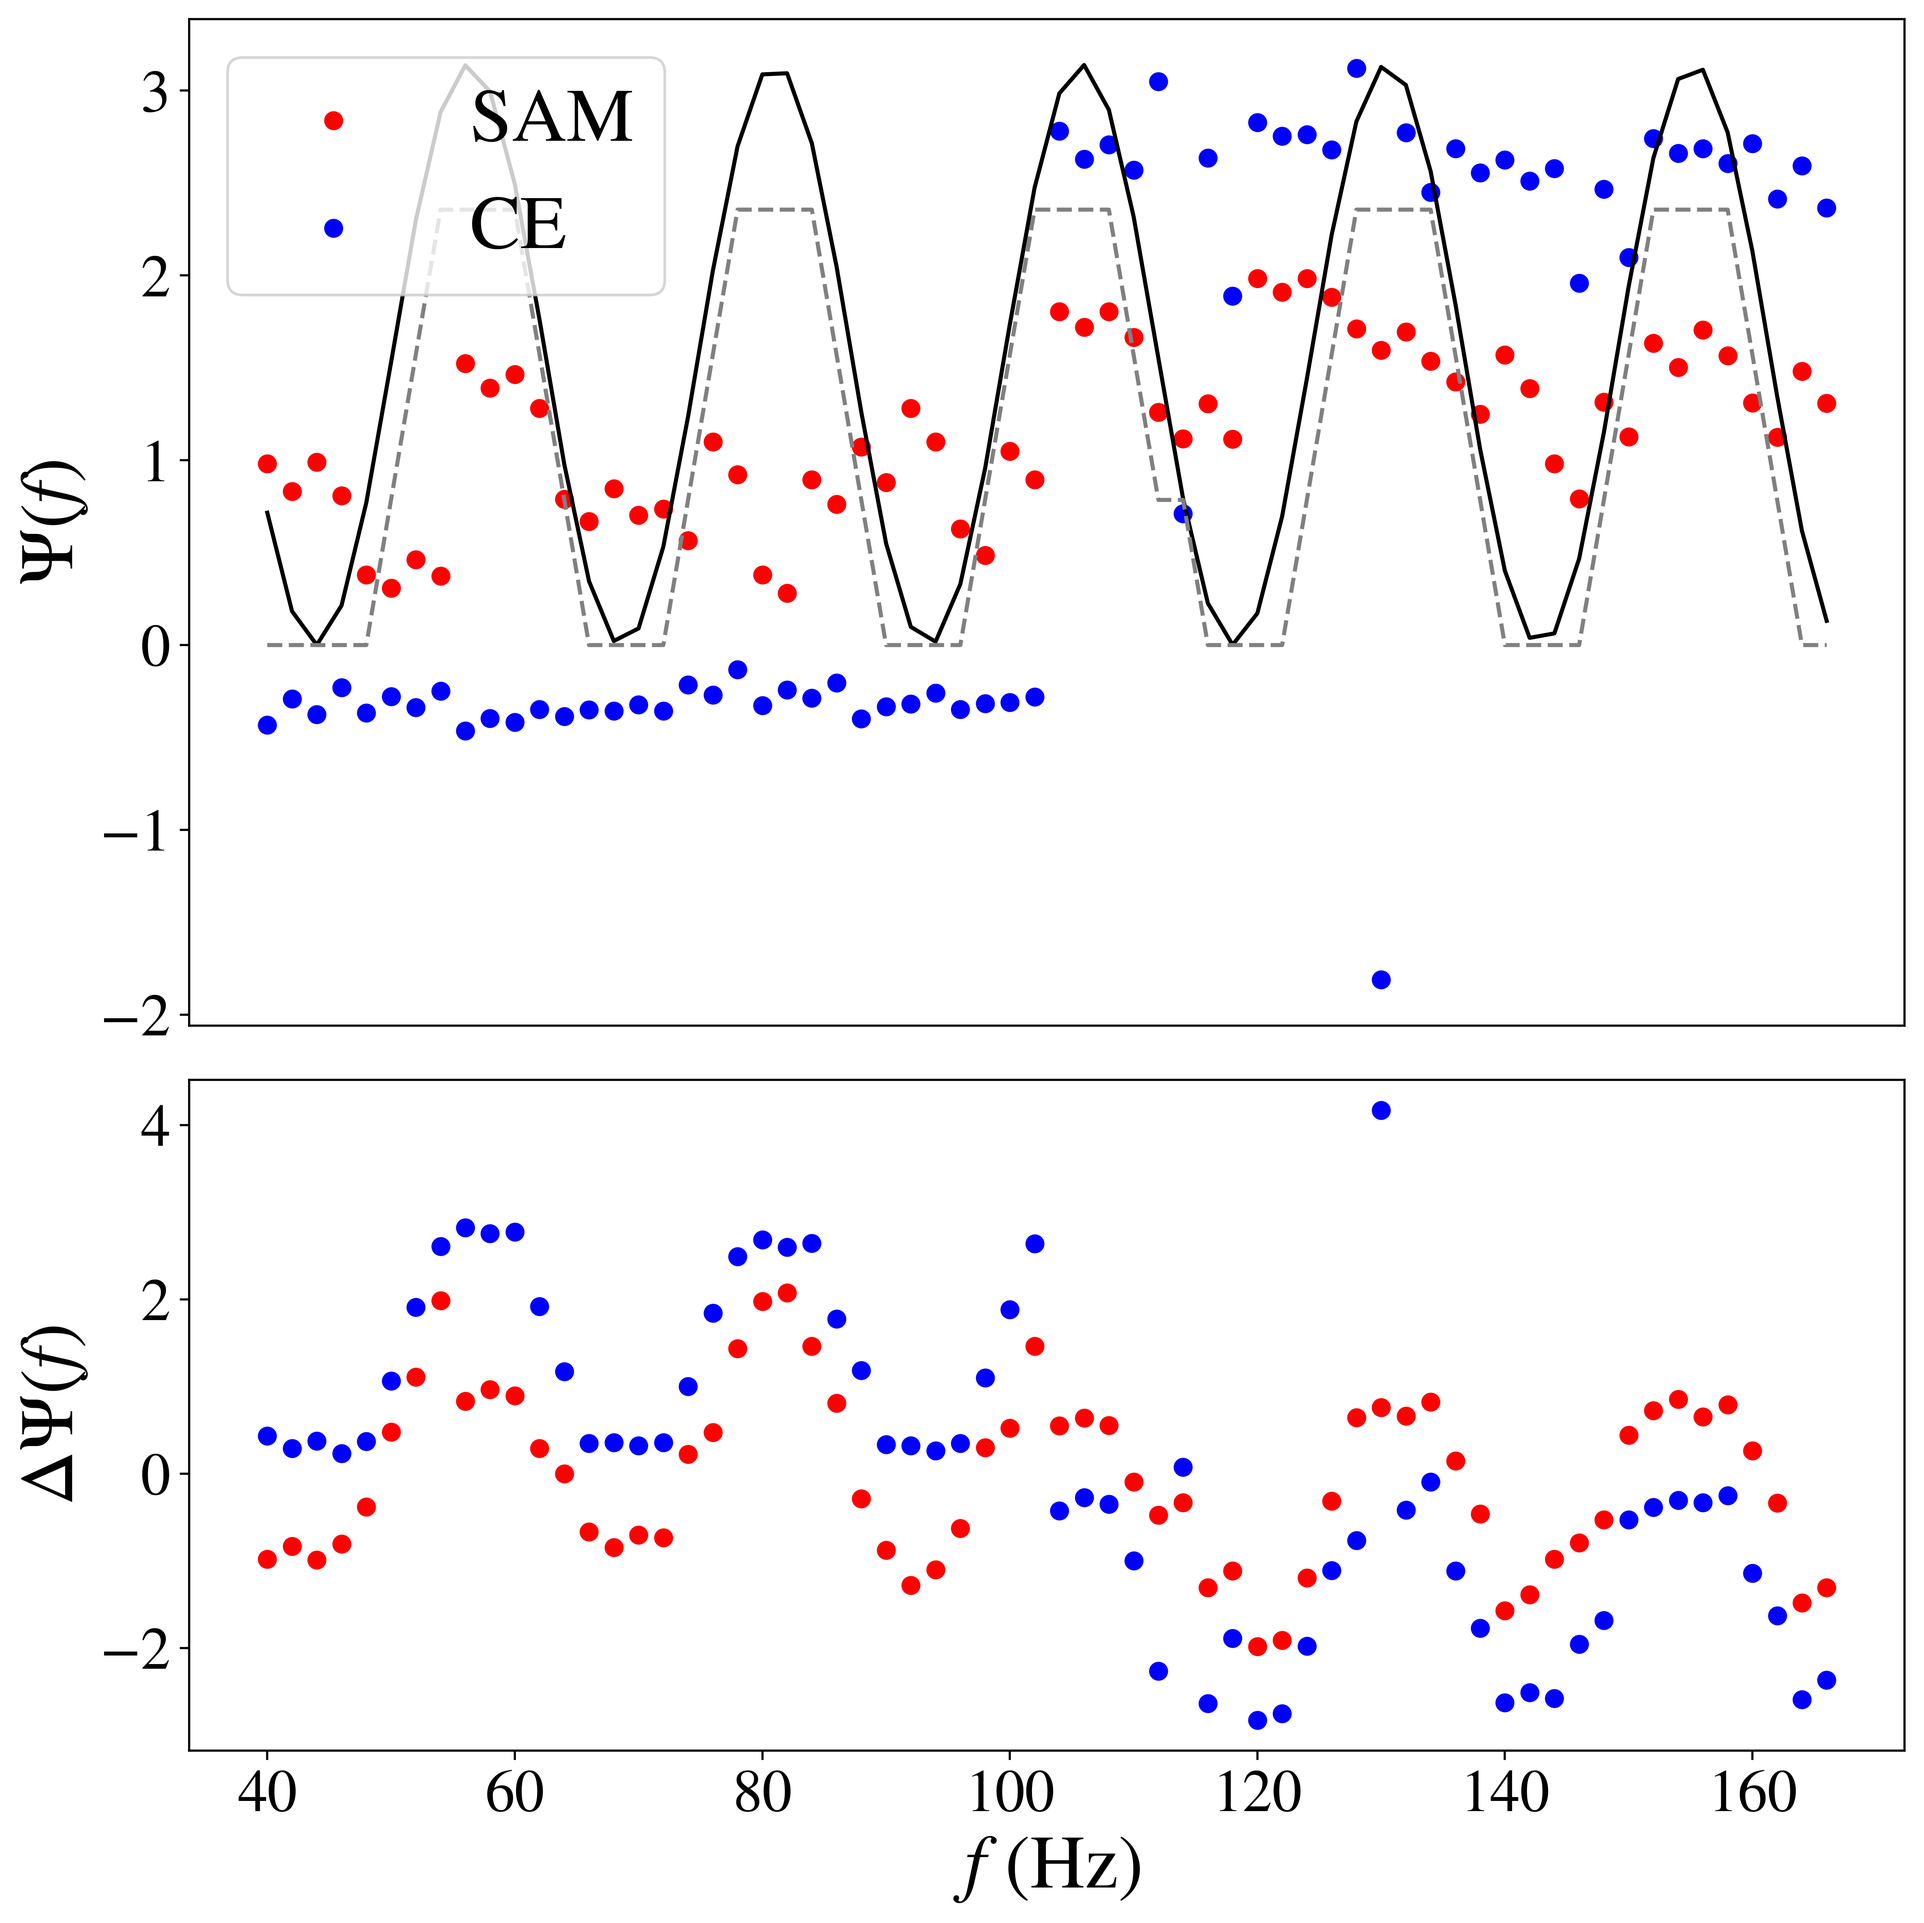
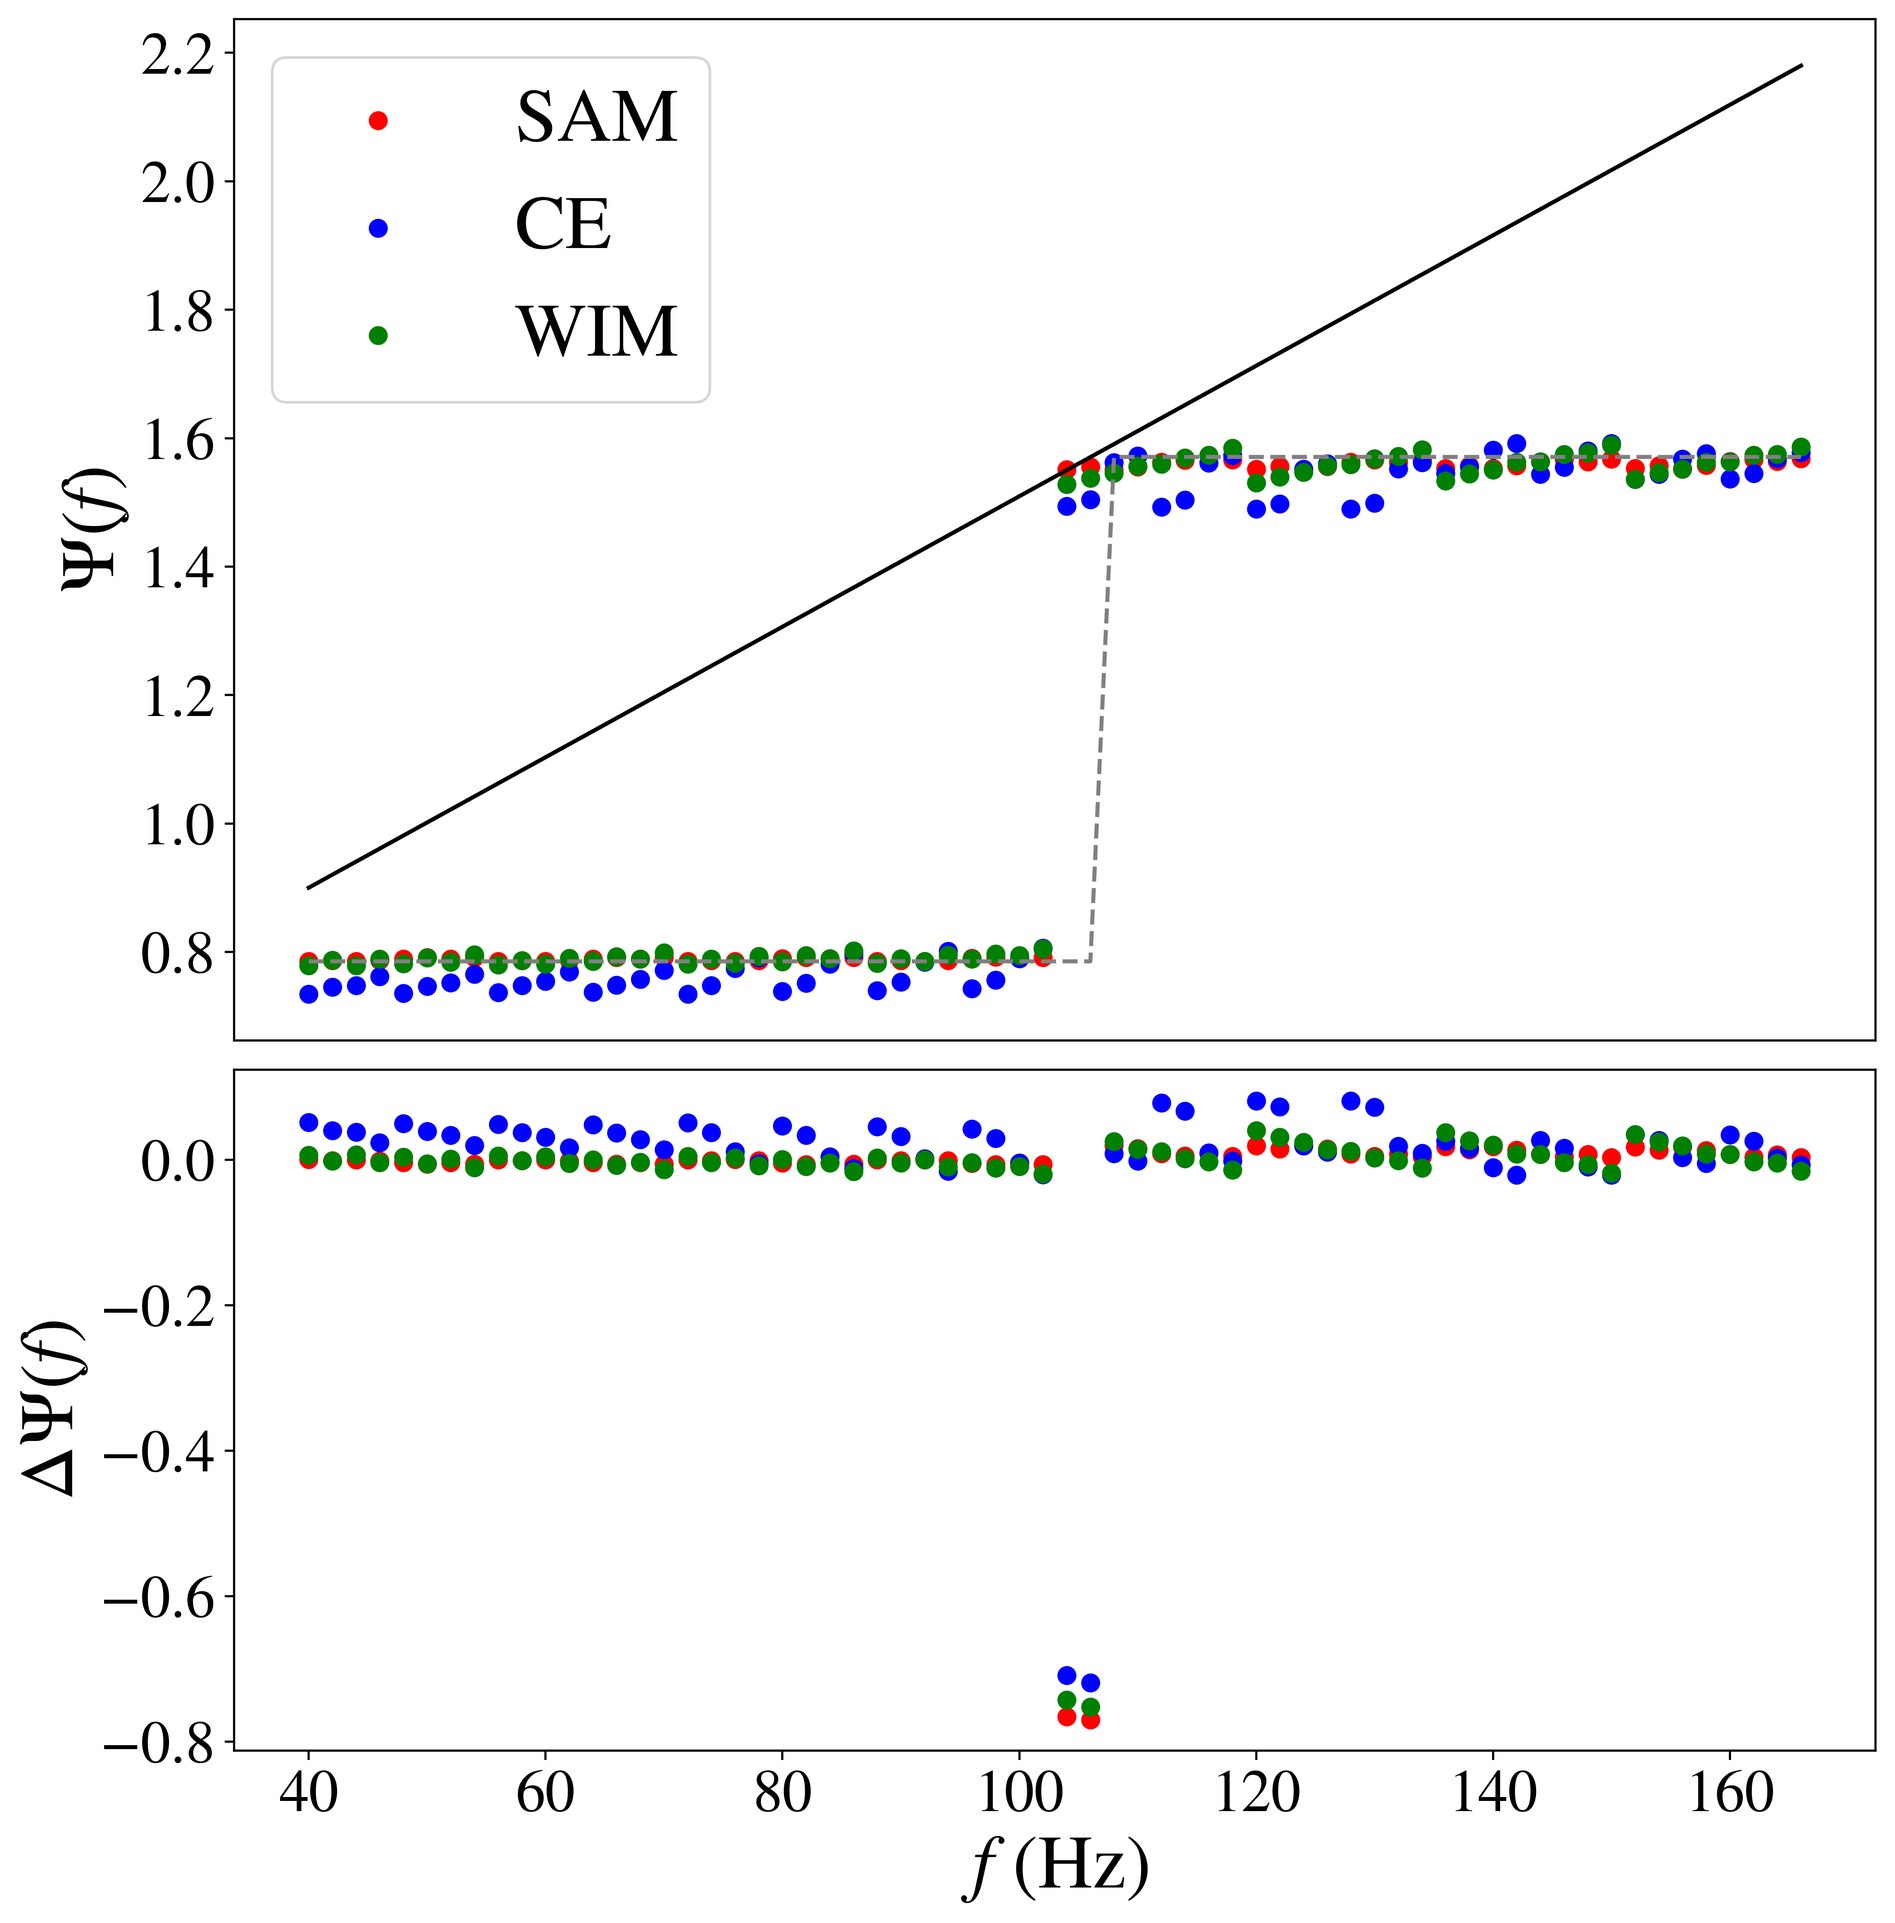
psi quadratic

diff --git a/full_encode.py b/full_encode.py
@@ -21,15 +21,15 @@ pdf = False # save outputs as pdf
 delta_round =True #calculate difference from rounded version 
 
 no_A = True # don't produce amplitude plot 
-no_p = False # don't produce phase plot 
+no_p = True # don't produce phase plot 
 no_h = True # don't produce h plot
 
 # additional plots 
 A_L_comp = False 
 QGAN_comp = False
 phase_round_comp = False
-phase_L_comp = False 
-phase_loss_comp = False
+phase_L_comp = False
+phase_loss_comp = True
 
 #------------------------------------------------------------------------------
 rcParams['mathtext.fontset'] = 'stix'
@@ -384,12 +384,13 @@ if phase_loss_comp==True:
     """
     PLOT QCNN PHASE VERSUS TARGET FOR DIFFERENT loss
     """
-    loss_arr = np.array(["SAM","CE"])
-    arr_1 = "outputs/weights_6_3(0)_6_600_psi_MM_s(S)(PR)(r).npy"
-    arr_2 = "outputs/weights_6_3(0)_6_600_psi_CE_s(S)(PR)(r).npy"
+    loss_arr = np.array(["SAM","CE", "WIM"])
+    arr_1 ="outputs/weights_6_3(0)_6_600_psi_MM_linear(S)(PR)(r).npy"
+    arr_2 = "outputs/weights_6_3(0)_6_600_psi_CE_linear(S)(PR)(r).npy"
+    arr_3 ="outputs/weights_6_3(0)_6_600_psi_WIM_linear(S)(PR)(r).npy"
   
-    weights_arr =np.array([arr_1, arr_2])
-    colours = ["red", "blue"]
+    weights_arr =np.array([arr_1, arr_2, arr_3])
+    colours = ["red", "blue", "green"]
     N = len(weights_arr)
 
     phase_arr = np.empty(N, dtype="object")

diff --git a/tools.py b/tools.py
@@ -1075,8 +1075,8 @@ def psi(x):
     x = x_trans(x)
 
     #out = np.pi /2 *(1+ np.sin(x /4 )) 
-    #out = 0.0001* x**2 # change this back later 
-    out = 0.5 + 0.01*x 
+    out = 0.0001* x**2 # change this back later 
+    #out = 0.5 + 0.01*x 
     #out = (((3./128))*((np.pi*Mc*x)**(-5./3))*( 1.+ (20./9)*((743./336)+(11./4)*eta)*(np.pi*Mt*x)**(2./3) -4.*(4.*np.pi - beta)*(np.pi*Mt*x) + 10.*((3058673./1016064) + (eta*5429./1008) + (617*(eta**2)/144) - sig)*(np.pi*Mt*x)**(4./3)) + 2.*np.pi*x*DT)/(2.*np.pi)
     return out
 
